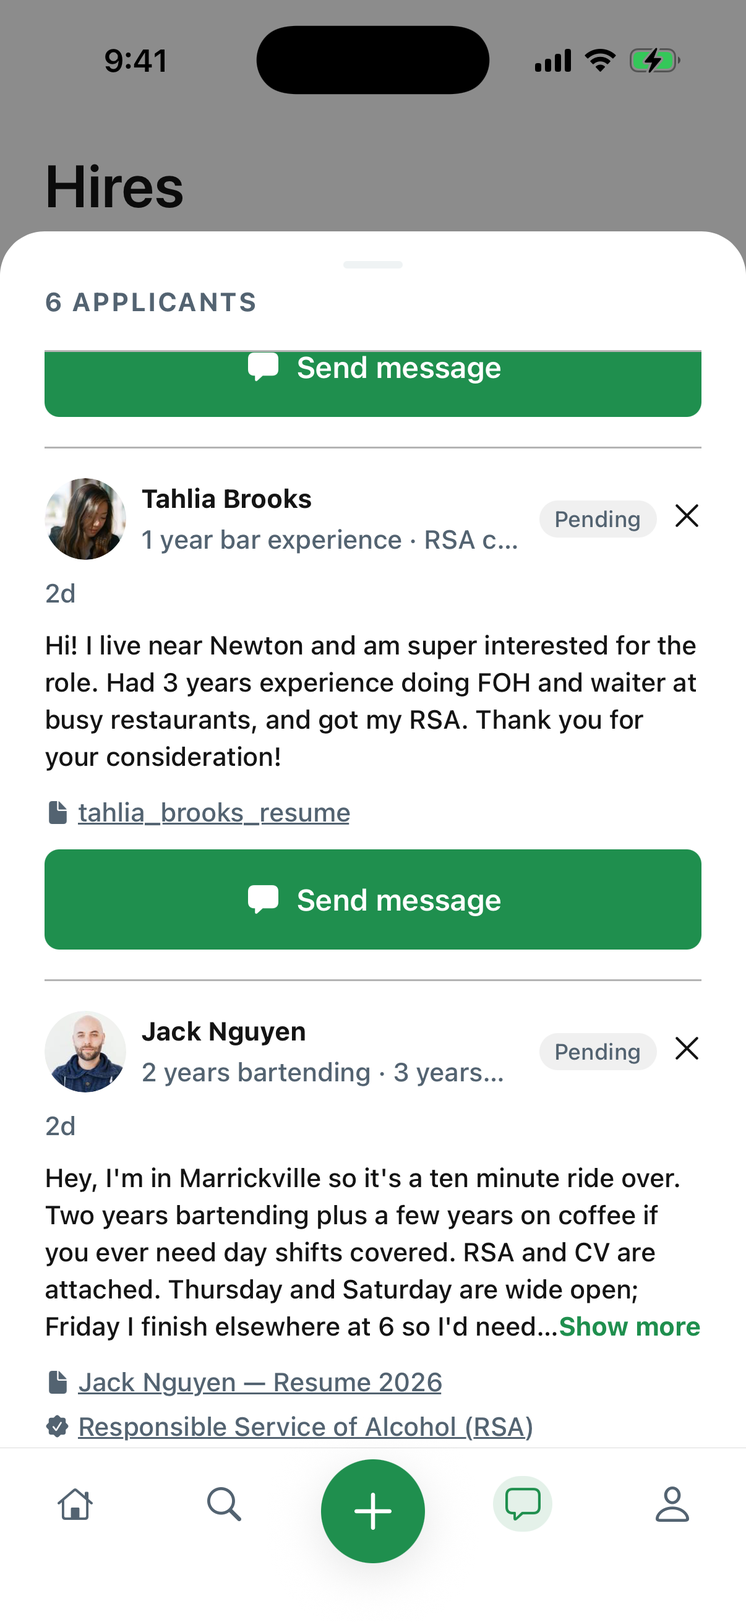
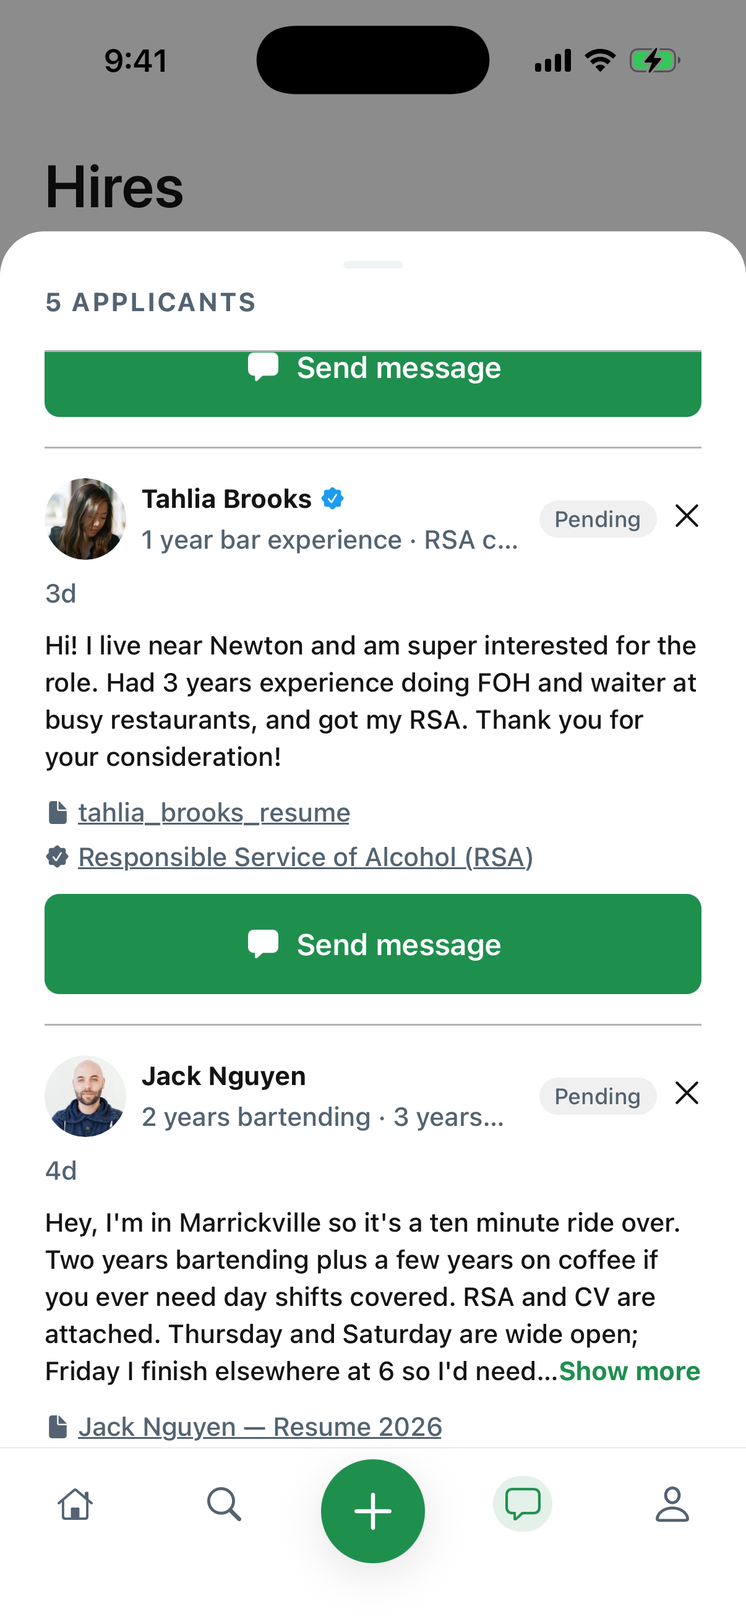
privacy + terms

Changed region(s): [[0.0614, 0.5252, 0.9511, 0.8959], [0.4295, 0.278, 0.4602, 0.3089]]

diff --git a/privacy.html b/privacy.html
@@ -1,0 +1,56 @@
+<!DOCTYPE html>
+<html lang="en-AU">
+<head>
+  <meta charset="UTF-8">
+  <meta name="viewport" content="width=device-width, initial-scale=1.0">
+
+  <title>Privacy Policy — Cloche</title>
+  <meta name="description" content="How Cloche collects, uses and protects personal information.">
+  <meta name="robots" content="index, follow">
+
+  <link rel="preconnect" href="https://fonts.googleapis.com">
+  <link rel="preconnect" href="https://fonts.gstatic.com" crossorigin>
+  <link href="https://fonts.googleapis.com/css2?family=Inter:ital,wght@0,400;0,500;0,600;1,600&family=Inter+Tight:wght@600;700&family=Newsreader:opsz@6..72&display=swap" rel="stylesheet">
+  <link rel="stylesheet" href="styles.css">
+</head>
+<body class="legal-page">
+
+  <!-- No preloader and no Work/Hire toggle here: this page is read, not
+       browsed, and the toggle drives content that does not exist on it. The
+       wordmark goes home rather than to #top for the same reason. -->
+  <header class="nav" id="nav">
+    <div class="nav-inner">
+      <a class="wordmark" href="index.html" aria-label="Cloche — home">Cloche</a>
+
+      <nav class="nav-pill" aria-label="Legal">
+        <a href="privacy.html" aria-current="page">Privacy</a>
+        <a href="terms.html">Terms</a>
+      </nav>
+
+      <div class="nav-actions">
+        <a class="btn btn-primary btn-sm" href="index.html">Back to site</a>
+      </div>
+    </div>
+  </header>
+
+  <main class="legal" id="top">
+    <div class="container legal-inner">
+      <h1>Privacy Policy</h1>
+      <p class="date">Effective 30 July 2026</p>
+      <div class="intro"><p>Cloche is a hospitality jobs app for Australia, operated by Jintang Zhao, ABN 39 810 897 188 (&quot;we&quot;, &quot;us&quot;). This policy explains what personal information we collect, why, who else sees it, and how to get it corrected or deleted. We handle personal information under the Privacy Act 1988 (Cth) and the Australian Privacy Principles.</p></div>
+      <section><h2>1. Information you give us</h2><p>When you create an account and build a profile, we collect:</p><ul><li>Account details: your email address or Australian mobile number, and a password. We send a one-time code to confirm it belongs to you.</li><li>Profile details: your name, a short bio, your suburb and state, and the search radius you set.</li><li>Photos: a profile photo and any additional photos you add.</li><li>Work information (workers): the roles you can do, past experience you enter, and images of certifications such as an RSA. A résumé document if you upload one.</li><li>Venue information (hirers): venue name, an optional street address, and the contact name.</li><li>Content you create: posts, comments, likes, expressions of interest, job applications, follow requests, and direct messages with any attachments.</li></ul><p>Certification images and résumés are sensitive to you, so treat them accordingly: they are visible to venues you apply to, and to nobody else.</p></section><section><h2>2. Information we collect as you use Cloche</h2><ul><li>Location: we do not track you. If you tap &quot;Use my current location&quot; we ask the operating system for a coarse fix, convert it immediately to the nearest listed suburb, and keep only that suburb. You can type a suburb instead and never grant the permission.</li><li>Which posts you have seen: recorded so the feed does not keep showing you the same jobs. This list stays on your device and is never uploaded.</li><li>Technical and diagnostic data: device type, app version, and error reports, used to keep the app working.</li></ul><p>Job ranking happens on your device. The signals that personalise your feed (your role picks, your suburb, what you have already seen) are combined locally, so we do not build a server-side profile of your browsing.</p></section><section><h2>3. Public posts we import</h2><p>Part of the Cloche feed comes from job posts that were already published publicly: for example, publicly accessible hospitality job groups and pages. Cloche works like a search engine for those posts: we index what is already public so people looking for shifts can find it in one place, alongside a link back to the original.</p><p>How we handle that content:</p><ul><li>We only access what is public. We collect only content that is publicly accessible without logging in to any account. We do not use content from private or members-only spaces, and we do not get around access restrictions, log-in walls or technical protections.</li><li>What we display is the facts of the job. From each post we extract and show the factual details (the role, the location, the shift type, and any pay stated) together with a short excerpt, the name and profile image shown publicly on the original post, and a link to that post. We do not republish posts wholesale.</li><li>Imported posts delete themselves. Every imported post is kept for a maximum of 30 days from the time we collect it, then removed automatically. Nothing imported is retained indefinitely.</li><li>We link back rather than pass it off as ours. Every imported post shows where it came from and links to the original, and applicants are directed to the original poster.</li><li>We never sell imported content, we do not license it to anyone else, and we do not use it for advertising.</li></ul><p>Separately, a Cloche user can share an individual public post they have found themselves into the app to turn it into a job listing. Those imports are initiated manually by that user, one post at a time (there is no bulk import) and the resulting draft belongs to that user and is not published to anyone else until they choose to publish it. The retention, link-back and removal rules above apply to these imports too.</p><p>If you posted something we imported, you can ask us to stop. Email us at <a href="mailto:hello@cloche.au">hello@cloche.au</a> and we will (a) delete the copies we hold, and (b) add you to an exclusion list so your posts are not imported again. That choice is entirely yours and you do not have to give a reason. You can also ask us to remove a single post rather than exclude you altogether, or claim the profile so you control it yourself.</p><p>We act on exclusion and removal requests promptly. Because imported posts expire on their own within 30 days, the practical effect of an exclusion request is permanent.</p></section><section><h2>4. How we use personal information</h2><ul><li>To run your account and show your profile to the people you interact with.</li><li>To match workers and venues: ranking the feed and the map by role, distance and recency.</li><li>To carry messages, applications and expressions of interest between you and the other party.</li><li>To summarise and categorise job posts, including with automated tools and third-party AI services, so a post shows its role, shift type and location consistently. Summaries are labelled in the app.</li><li>To keep Cloche safe: investigating misuse, spam, impersonation and breaches of our Terms.</li><li>To fix problems and improve the product.</li><li>To send you service messages you need (verification codes, notifications you have enabled, important changes).</li></ul><p>We do not sell your personal information, and we do not use it for third-party advertising.</p></section><section><h2>5. What other people can see</h2><p>Your name, photos, bio, suburb, roles, experience and the posts you publish are visible to other Cloche users. Your email address, phone number, password, résumé and certification images are not, except where you deliberately share them, such as applying to a job or sending a message.</p><p>Anything you send another user in a message or an application is visible to that user, and stays visible to them.</p></section><section><h2>6. Service providers</h2><p>We use a small number of providers to run the app, and give each only what it needs:</p><ul><li>Supabase: database, authentication and file storage for everything above.</li><li>Email and SMS providers: to deliver verification codes.</li><li>Map tile providers: to draw the jobs map. A map request reveals the area being viewed.</li><li>AI providers: to summarise and categorise job posts (see section 4).</li><li>Push notification services operated by Apple and Google, if you enable notifications.</li></ul><p>Some of these providers store or process data outside Australia. Where that happens we take reasonable steps to ensure your information is handled consistently with the Australian Privacy Principles.</p><p>We may also disclose information where the law requires it, or where it is necessary to protect someone's safety or our legal rights.</p></section><section><h2>7. How long we keep it</h2><ul><li>Account and profile data: while your account exists. Delete your account and we delete it, other than anything we must keep by law.</li><li>Imported public posts: a maximum of 30 days, then deleted automatically.</li><li>Messages and applications: while the account exists, because they are a record for both sides of the conversation.</li><li>Your seen-posts list: on your device only; clearing the app data clears it.</li></ul></section><section><h2>8. Security</h2><p>Access to data is enforced at the database level, so one account cannot read another's private data. Traffic is encrypted in transit, and files such as certifications and résumés are stored in access-controlled buckets. No system is perfectly secure; if a data breach ever puts you at likely risk of serious harm, we will notify you and the Office of the Australian Information Commissioner as required by the Notifiable Data Breaches scheme.</p></section><section><h2>9. Your rights and choices</h2><ul><li>Access: ask for a copy of the personal information we hold about you.</li><li>Correction: fix it yourself in the app, or ask us.</li><li>Deletion: delete your account, or email us and we will do it.</li><li>Exclusion from imports: see section 3.</li><li>Permissions: location and photo access are asked for in context and can be revoked in your device settings at any time. Notifications can be turned off the same way.</li></ul><p>Email <a href="mailto:hello@cloche.au">hello@cloche.au</a> for any of these. We aim to respond within 30 days. If you are not satisfied with how we have handled a privacy matter, you can complain to the Office of the Australian Information Commissioner at oaic.gov.au.</p></section><section><h2>10. Children</h2><p>Cloche is not for people under 18. We do not knowingly collect information from anyone under that age; if we learn that we have, we delete it.</p></section><section><h2>11. Changes to this policy</h2><p>If we change this policy we will update the date at the top and, for anything significant, tell you in the app. Continuing to use Cloche after a change means you accept the updated policy.</p></section><section><h2>12. Contact us</h2><p>Privacy questions, requests and complaints: <a href="mailto:hello@cloche.au">hello@cloche.au</a> (Jintang Zhao, ABN 39 810 897 188).</p></section>
+    </div>
+  </main>
+
+  <footer class="footer">
+    <div class="container footer-inner">
+      <span class="wordmark">Cloche</span>
+      <p>© 2026 Cloche. Made for hospitality, in Australia.</p>
+      <nav aria-label="Legal">
+        <a href="privacy.html">Privacy</a>
+        <a href="terms.html">Terms</a>
+      </nav>
+    </div>
+  </footer>
+</body>
+</html>

diff --git a/terms.html b/terms.html
@@ -1,0 +1,56 @@
+<!DOCTYPE html>
+<html lang="en-AU">
+<head>
+  <meta charset="UTF-8">
+  <meta name="viewport" content="width=device-width, initial-scale=1.0">
+
+  <title>Terms of Service — Cloche</title>
+  <meta name="description" content="The terms of use for the Cloche app.">
+  <meta name="robots" content="index, follow">
+
+  <link rel="preconnect" href="https://fonts.googleapis.com">
+  <link rel="preconnect" href="https://fonts.gstatic.com" crossorigin>
+  <link href="https://fonts.googleapis.com/css2?family=Inter:ital,wght@0,400;0,500;0,600;1,600&family=Inter+Tight:wght@600;700&family=Newsreader:opsz@6..72&display=swap" rel="stylesheet">
+  <link rel="stylesheet" href="styles.css">
+</head>
+<body class="legal-page">
+
+  <!-- No preloader and no Work/Hire toggle here: this page is read, not
+       browsed, and the toggle drives content that does not exist on it. The
+       wordmark goes home rather than to #top for the same reason. -->
+  <header class="nav" id="nav">
+    <div class="nav-inner">
+      <a class="wordmark" href="index.html" aria-label="Cloche — home">Cloche</a>
+
+      <nav class="nav-pill" aria-label="Legal">
+        <a href="privacy.html">Privacy</a>
+        <a href="terms.html" aria-current="page">Terms</a>
+      </nav>
+
+      <div class="nav-actions">
+        <a class="btn btn-primary btn-sm" href="index.html">Back to site</a>
+      </div>
+    </div>
+  </header>
+
+  <main class="legal" id="top">
+    <div class="container legal-inner">
+      <h1>Terms of Service</h1>
+      <p class="date">Effective 30 July 2026</p>
+      <div class="intro"><p>These terms are the agreement between you and Jintang Zhao, ABN 39 810 897 188 (&quot;we&quot;, &quot;us&quot;) for use of the Cloche app. By creating an account you accept them. If you do not accept them, do not use Cloche.</p></div>
+      <section><h2>1. Who can use Cloche</h2><p>You must be at least 18 years old and able to enter a binding agreement. You must give accurate information, keep it current, and keep your sign-in details to yourself. You are responsible for what happens under your account.</p><p>One person or venue, one account. Do not impersonate anyone or any business.</p></section><section><h2>2. What Cloche is, and is not</h2><p>Cloche is a noticeboard, a search index of publicly posted hospitality jobs, and a messaging tool. It helps hospitality workers and venues find each other.</p><p>We are not an employment agency, a labour hire company, or a party to any arrangement you reach through the app. We do not employ workers, we do not vet venues or workers, and we do not verify pay rates, working conditions, qualifications, right-to-work status or the accuracy of any post. Any engagement is strictly between the worker and the venue, and both are responsible for meeting their own obligations: including under the Fair Work Act 2009 (Cth), the relevant award, and work health and safety law.</p><p>We do not promise that you will find work, find staff, or receive any reply. Check people out for yourself before you rely on them, and meet in a safe, public setting.</p></section><section><h2>3. Your content</h2><p>You keep ownership of what you post. You give us a non-exclusive, worldwide, royalty-free licence to host, store, reproduce and display it for the purpose of operating and promoting Cloche, for as long as you keep it on the platform.</p><p>You promise that you have the right to post what you post, and that it does not infringe anyone's rights or break any law. You are responsible for it.</p></section><section><h2>4. Imported public posts</h2><p>Some posts in the feed were published publicly elsewhere and are indexed here: we show the extracted job details and a link to the original. We did not write them, we do not endorse them, and we cannot vouch for their accuracy or whether the job is still open.</p><ul><li>Indexed posts come only from publicly accessible sources, collected without logging in to any account. We do not index private or members-only content.</li><li>Imported posts are deleted automatically within 30 days.</li><li>If a post is yours, you can ask us to remove it, claim it as your own listing, or exclude you from future imports entirely: no reason needed. See the Privacy Policy, section 3.</li><li>If you import a post using the share feature, you confirm the post was publicly accessible, you are importing it for your own individual use one post at a time, and you take responsibility for any listing you choose to publish from it.</li><li>You may not scrape, copy in bulk, resell or redistribute content from Cloche, whether imported or user-created.</li></ul></section><section><h2>5. Acceptable use</h2><p>Do not use Cloche to:</p><ul><li>charge a worker a fee to apply for, be considered for, or be given work;</li><li>discriminate against anyone on a ground protected by law, including in a job ad;</li><li>harass, threaten, abuse, stalk or send unwanted sexual content to anyone;</li><li>post work that is unpaid where the law requires payment, unsafe, or unlawful;</li><li>post spam, scams, multi-level marketing, or anything unrelated to hospitality work;</li><li>publish someone else's personal information without their consent;</li><li>misrepresent your identity, your venue, your qualifications or your certifications;</li><li>scrape, crawl, reverse-engineer, overload or attempt to gain unauthorised access to the app or its data.</li></ul></section><section><h2>6. Job posts and applications</h2><p>If you post a job, the details must be accurate and lawful: including the role, the shift type, the location, and any pay you state. If you apply for a job, your profile, experience and certifications must be truthful, and you must hold any certification you claim.</p><p>Applications, expressions of interest and messages are shared with the other party so they can decide. Treat what you receive as confidential to that purpose.</p></section><section><h2>7. Moderation, suspension and removal</h2><p>We can remove content and suspend or close an account if we reasonably believe these terms have been broken, or to protect users or comply with the law. Where it is practical to do so, we will tell you why. You can stop using Cloche and delete your account at any time.</p></section><section><h2>8. Our intellectual property</h2><p>The Cloche name, logo, app, design and code are ours. Nothing in these terms gives you a right to use them beyond using the app as intended.</p><p>We respect other people's intellectual property and expect the same from you. If you believe content on Cloche (imported or user-created) infringes your copyright or other rights, email <a href="mailto:hello@cloche.au">hello@cloche.au</a> with a link to the content, a link to or copy of the original, and enough detail for us to assess it. We review notices promptly, remove or disable access to content where a claim is made out, and act against repeat infringers. Where the law of another country gives a notice procedure (such as the US DMCA), a compliant notice to the same address will be honoured.</p></section><section><h2>9. Availability and changes</h2><p>Cloche is provided as-is and as-available. We may change, suspend or discontinue features, and we do not guarantee uninterrupted or error-free service. We may update these terms; for significant changes we will tell you in the app, and continuing to use Cloche means you accept the update.</p></section><section><h2>10. Consumer guarantees and liability</h2><p>Nothing in these terms excludes, restricts or modifies any guarantee, right or remedy you have under the Australian Consumer Law that cannot lawfully be excluded. Where we are permitted to limit our liability, our liability is limited to resupplying the service or paying the cost of having it resupplied.</p><p>Subject to that, we are not liable for indirect or consequential loss, or for loss of profits, income or opportunity. In particular, we are not liable for the conduct of any user, for any engagement or non-engagement arising from Cloche, for unpaid wages, or for the accuracy of any post: including imported posts.</p><p>You agree to indemnify us for loss we suffer because you breached these terms or the law.</p></section><section><h2>11. Governing law</h2><p>These terms are governed by the laws of New South Wales, Australia, and you submit to the non-exclusive jurisdiction of its courts.</p></section><section><h2>12. Contact us</h2><p>Questions about these terms: <a href="mailto:hello@cloche.au">hello@cloche.au</a> (Jintang Zhao, ABN 39 810 897 188).</p></section>
+    </div>
+  </main>
+
+  <footer class="footer">
+    <div class="container footer-inner">
+      <span class="wordmark">Cloche</span>
+      <p>© 2026 Cloche. Made for hospitality, in Australia.</p>
+      <nav aria-label="Legal">
+        <a href="privacy.html">Privacy</a>
+        <a href="terms.html">Terms</a>
+      </nav>
+    </div>
+  </footer>
+</body>
+</html>

diff --git a/index.html b/index.html
@@ -552,36 +552,36 @@
             <div class="gallery-shot">
               <div class="gallery-phone">
                 <div class="device-screen">
-                  <img src="assets/step-1-post.png" width="1206" height="2622" loading="lazy"
+                  <img src="assets/step-1-post.png" width="1206" height="2622" fetchpriority="low"
                        alt="The Make a hire composer: Waiter / FOH picked as the job type, set to casual, work rights required, with the front-of-house role description written out.">
                 </div>
               </div>
             </div>
-            <p class="gallery-caption"><b>1. Post the role.</b> Job type, hours, visa requirements and a description in plain English. Written once, and it's in front of the workers nearby.</p>
+            <p class="gallery-caption"><b>1. Post the role.</b> Set the job type, the hours, the shift type and any visa or certificate requirements, then describe the role. Written once, and it's in front of the workers nearby.</p>
           </li>
 
           <li class="gallery-card" data-side="hire">
             <div class="gallery-shot">
               <div class="gallery-phone">
                 <div class="device-screen">
-                  <img src="assets/step-2-applicants.png" width="1206" height="2622" loading="lazy"
-                       alt="Six applicants for the front-of-house role: Tahlia Brooks and Jack Nguyen, each with their experience, a note about themselves, an attached resume and a verified RSA.">
+                  <img src="assets/step-2-applicants.png" width="1206" height="2622" fetchpriority="low"
+                       alt="The applicants sheet over the Hires screen: 5 applicants for the role, with Tahlia Brooks and Jack Nguyen each showing their experience, a note about themselves, an attached resume, a verified RSA and a Send message button.">
                 </div>
               </div>
             </div>
-            <p class="gallery-caption"><b>2. Read who applied.</b> Every applicant in one list, with their experience, their own note, and the resume and certificates already attached.</p>
+            <p class="gallery-caption"><b>2. See your applicants:</b> Everyone who applied in one place, with their experience, the note they wrote you, and their resume and verified certificates already attached.</p>
           </li>
 
           <li class="gallery-card" data-side="hire">
             <div class="gallery-shot">
               <div class="gallery-phone">
                 <div class="device-screen">
-                  <img src="assets/step-3-message.png" width="1206" height="2622" loading="lazy"
+                  <img src="assets/step-3-message.png" width="1206" height="2622" fetchpriority="low"
                        alt="A conversation with applicant Tahlia Brooks: her application for Front of House at The Copper Still in Newtown sits at the top of the thread with her resume and RSA attached, followed by a reply asking her in for a trial shift this week.">
                 </div>
               </div>
             </div>
-            <p class="gallery-caption"><b>3. Message them directly.</b> Offer a trial in the same thread the application arrived in. No agency in the middle, no phone tag.</p>
+            <p class="gallery-caption"><b>3. Message them directly:</b> Reply to anyone in the same thread their application arrived in, and offer a trial shift there. No agency in between.</p>
           </li>
 
           <li class="gallery-card" data-side="work" hidden>
@@ -593,41 +593,41 @@
                      right side, and the feed's left side where the text starts. -->
                 <div class="device-screen device-split">
                   <div class="split-half show-right">
-                    <img src="assets/work-step-1-map.png" width="1206" height="2622" loading="lazy"
+                    <img src="assets/work-step-1-map.png" width="1206" height="2622" fetchpriority="low"
                          alt="The same jobs on a map of Sydney — 374 jobs across 67 suburbs as counted pins, clustered thickest over the inner city, with filters for Chef, Waiter / FOH and Barista.">
                   </div>
                   <div class="split-half show-left">
-                    <img src="assets/work-step-1-feed.png" width="1206" height="2622" loading="lazy"
+                    <img src="assets/work-step-1-feed.png" width="1206" height="2622" fetchpriority="low"
                          alt="The job feed: a part-time Cook role in Surry Hills and a Barista all-rounder in Castle Hill, each posted from Facebook with an AI summary of the hours, experience and start date.">
                   </div>
                 </div>
               </div>
             </div>
-            <p class="gallery-caption"><b>1. See what's open nearby.</b> Every hospitality job around you in one feed — or on the map, by suburb. Each one summarised so you know the hours and the ask at a glance.</p>
+            <p class="gallery-caption"><b>1. See what's open nearby.</b> Every hospitality job around you. Browse by feed or map, filter to your needs. Each job summarised with key information.</p>
           </li>
 
           <li class="gallery-card" data-side="work" hidden>
             <div class="gallery-shot">
               <div class="gallery-phone">
                 <div class="device-screen is-sheet">
-                  <img src="assets/work-step-2-apply.png" width="1206" height="2622" loading="lazy"
+                  <img src="assets/work-step-2-apply.png" width="1206" height="2622" fetchpriority="low"
                        alt="Applying for Front of House at The Copper Still in Newtown: the resume and RSA certificate autofilled from Tahlia Brooks' profile, with a short message to the hirer above the Submit application button.">
                 </div>
               </div>
             </div>
-            <p class="gallery-caption"><b>2. Apply in one tap.</b> Your resume and certificates come straight from your profile — add a line about yourself and send it.</p>
+            <p class="gallery-caption"><b>2. Apply in one tap.</b> Your resume and certificates come straight from your profile, add a line about yourself and send it.</p>
           </li>
 
           <li class="gallery-card" data-side="work" hidden>
             <div class="gallery-shot">
               <div class="gallery-phone">
                 <div class="device-screen">
-                  <img src="assets/work-step-3-reply.png" width="1206" height="2622" loading="lazy"
+                  <img src="assets/work-step-3-reply.png" width="1206" height="2622" fetchpriority="low"
                        alt="The thread with The Copper Still from the worker's side: the sent application with its resume and RSA at the top, the venue asking Tahlia in for a trial shift, and her reply offering Wednesday to Friday being typed.">
                 </div>
               </div>
             </div>
-            <p class="gallery-caption"><b>3. Hear back in the same thread.</b> The venue messages you where you applied — sort out a trial shift with them directly.</p>
+            <p class="gallery-caption"><b>3. Hear back directly:</b> The venue or recruiter messages you if there's a fit, and you sort out the trial shift right there in the thread. No agency in between.</p>
           </li>
         </ul>
       </div>
@@ -731,8 +731,8 @@
       <span class="wordmark">Cloche</span>
       <p>© 2026 Cloche. Made for hospitality, in Australia.</p>
       <nav aria-label="Legal">
-        <a href="#">Privacy</a>
-        <a href="#">Terms</a>
+        <a href="privacy.html">Privacy</a>
+        <a href="terms.html">Terms</a>
       </nav>
     </div>
   </footer>

diff --git a/styles.css b/styles.css
@@ -1589,3 +1589,86 @@ html.is-loading .tabs-rail { opacity: 0; transition: none; }
   .nav-actions .btn-sm { font-size: 0.66rem; padding: 5px 9px; }
   .hero-tabs .tab { padding: 5px 11px; font-size: 0.8rem; }
 }
+
+/* ---------- Legal pages (privacy.html, terms.html) ----------
+   Read, not browsed. The measure is set in em so it tracks the type rather
+   than the viewport, and the page keeps the site's fonts and green so it
+   reads as the same company — but none of the hero's display sizes, which
+   would fight a document that is all body copy. */
+
+.legal-page .nav {
+  position: sticky; /* nothing here scrolls under it worth hiding */
+  background: var(--nav-bg);
+  -webkit-backdrop-filter: blur(18px);
+  backdrop-filter: blur(18px);
+  border-bottom-color: var(--line);
+}
+.legal-page .nav-pill a[aria-current="page"] { color: var(--ink); font-weight: 600; }
+
+.legal { padding: clamp(40px, 7vh, 76px) 0 clamp(72px, 12vh, 130px); }
+.legal-inner { max-width: 46em; }
+
+.legal h1 {
+  font-family: var(--font-display);
+  font-size: clamp(2.1rem, 4.4vw, 3rem);
+  line-height: 1.1;
+  letter-spacing: -0.02em;
+  margin-bottom: 8px;
+}
+.legal .date { color: var(--muted); font-size: 0.95rem; }
+
+/* The opening paragraph is the one the reader must not skim past, so it is
+   set a size up and closed with a rule rather than left in the run of text. */
+.legal .intro {
+  margin-top: 26px;
+  padding-bottom: 26px;
+  border-bottom: 1px solid var(--line);
+  font-size: 1.1rem;
+}
+
+.legal section { margin-top: 38px; }
+.legal h2 {
+  font-family: var(--font-display);
+  font-size: 1.22rem;
+  line-height: 1.3;
+  letter-spacing: -0.01em;
+  margin-bottom: 12px;
+}
+.legal p { color: var(--muted); line-height: 1.62; }
+.legal p + p { margin-top: 14px; }
+.legal .intro p { color: var(--ink); }
+
+.legal ul { margin-top: 14px; padding-left: 0; list-style: none; display: grid; gap: 10px; }
+/* A bullet drawn in the brand green rather than the browser's disc, aligned
+   off the first line's cap height so it sits with the text, not above it. */
+.legal li { position: relative; padding-left: 26px; color: var(--muted); line-height: 1.62; }
+.legal li::before {
+  content: "";
+  position: absolute;
+  left: 6px; top: 0.66em;
+  width: 6px; height: 6px;
+  border-radius: 50%;
+  background: var(--accent);
+}
+
+.legal a { color: var(--accent); text-decoration: underline; text-underline-offset: 2px; }
+.legal a:hover { color: var(--accent-lift); }
+
+@media (max-width: 760px) {
+  .legal h2 { font-size: 1.12rem; }
+  .legal .intro { font-size: 1.04rem; }
+}
+
+/* Work/Hire swap: the incoming cards rise in one after another, so the rail
+   reads as turning over rather than cutting. --d is set per card in JS. */
+.gallery-card.is-swapping {
+  animation: gallery-card-in 0.42s var(--ease-out) both;
+  animation-delay: var(--d, 0s);
+}
+@keyframes gallery-card-in {
+  from { opacity: 0; transform: translateY(12px) scale(0.99); }
+  to { opacity: 1; transform: none; }
+}
+@media (prefers-reduced-motion: reduce) {
+  .gallery-card.is-swapping { animation: none; }
+}

diff --git a/script.js b/script.js
@@ -219,13 +219,29 @@
     /* Called by the hero's Work/Hire toggle. Swapping the set changes the
        rail's scrollWidth, so the position and the arrows are both reset —
        landing mid-rail on a side you just switched to reads as broken. */
-    gallerySide = function (side) {
+    gallerySide = function (side, animate) {
       Array.prototype.forEach.call(railCards, function (card) {
         card.hidden = card.dataset.side !== side;
       });
       railIndex = 0;
       rail.scrollTo({ left: 0, behavior: 'auto' });
       railSync();
+
+      /* The incoming set rises in on a stagger instead of appearing between
+         two frames. Nothing is crossfaded against the outgoing side: the two
+         sets are different heights and would jitter the rail while both were
+         laid out. The shots are eager-loaded during the preloader, so by the
+         time anyone can reach this toggle they are decoded and the fade never
+         reveals a half-painted image. */
+      if (!animate || reduceMotion) return;
+      var i = 0;
+      Array.prototype.forEach.call(railCards, function (card) {
+        if (card.hidden) return;
+        card.classList.remove('is-swapping');
+        void card.offsetWidth; // restart the animation on every swap
+        card.style.setProperty('--d', (i++ * 0.07) + 's');
+        card.classList.add('is-swapping');
+      });
     };
 
     function railSync() {
@@ -462,7 +478,7 @@
       swapImgs[i].classList.toggle('is-active', i === index);
     });
     swapHeadline(index);
-    if (gallerySide) gallerySide(index === 1 ? 'hire' : 'work');
+    if (gallerySide) gallerySide(index === 1 ? 'hire' : 'work', true);
     sidePanels(index === 1 ? 'hire' : 'work');
   }
 
